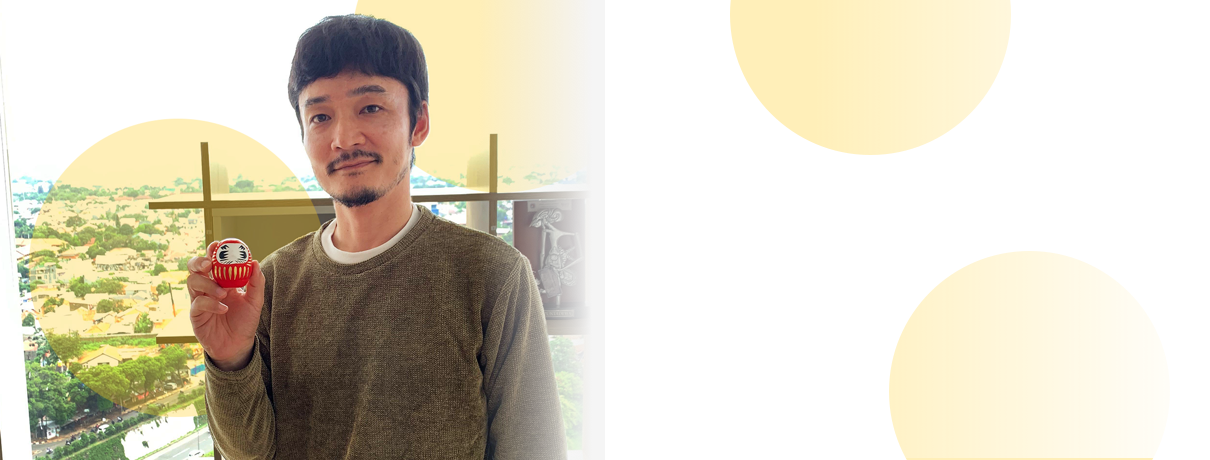
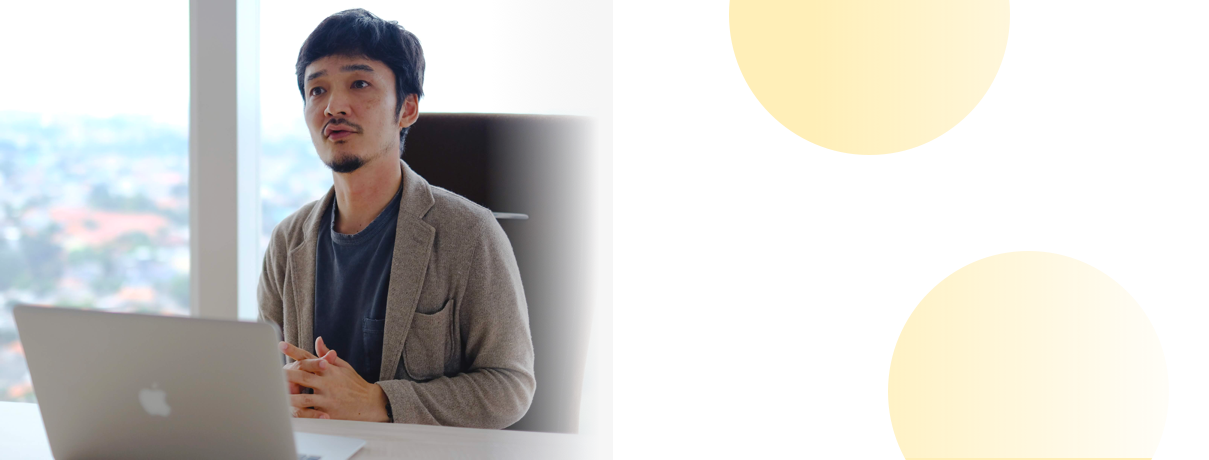
add new content for pesan untuk kandidat

diff --git a/career/interview/aprillian.php b/career/interview/aprillian.php
@@ -1,0 +1,206 @@
+<!DOCTYPE html>
+<html lang="id">
+
+<head>
+  <meta charset="utf-8">
+  <meta http-equiv="X-UA-Compatible" content="IE=edge">
+  <meta name="viewport" content="width=device-width, initial-scale=1.0, minimum-scale=0.5, maximum-scale=3.0">
+  <meta name="description" itemprop="description"
+    content="Staff terbaik kami di divisi Digital Marketing memberikan pesan untuk para kandidat yang ingin melamar sebagai Frontend Developer di LOGIQUE terkait kemampuan apa saja yang dicari oleh kami sehingga dapat terus berkembang bersama kami. Segera kunjungi website karir LOGIQUE sekarang juga!">
+  <meta name="keywords"
+    content="keuntungan bekerja di logique, join us, web developer, lowongan kerja, digital marketing, seo, desain">
+  <meta name="author" content="PT. Logique Digital Indonesia">
+  <meta property="og:title" content="Interview Digital Marketing | Pesan Untuk Kandidat | LOGIQUE">
+  <meta property="og:type" content="website">
+  <meta property="og:site_name" content="Logique">
+  <meta property="og:url" content="https://www.logique.co.id/career/">
+   <meta property="og:image" content="https://www.logique.co.id/img/ogimg/karir.png">
+  <meta property="og:description"
+    content="Staff terbaik kami di divisi Frontend Developer memberikan pesan untuk para kandidat yang ingin melamar sebagai Frontend Developer di LOGIQUE terkait kemampuan apa saja yang dicari oleh kami sehingga dapat terus berkembang bersama kami. Segera kunjungi website karir LOGIQUE sekarang juga!">
+  <link rel="shortcut icon" type="image/x-icon" href="/favicon.ico">
+  
+    <script type="text/javascript" src="//script.crazyegg.com/pages/scripts/0096/6080.js" async="async"></script>
+    <title>Interview Digital Marketing | Pesan Untuk Kandidat | LOGIQUE</title>
+
+  <!-- Bootstrap -->
+  <link href="/css/bootstrap.min.css" rel="stylesheet">
+  <link href="/career/style-career.css" rel="stylesheet">
+  <!-- <link href="/css/style.css" rel="stylesheet"> -->
+  <link href="/fonts/font-awesome/css/font-awesome.min.css" rel="stylesheet">
+  <link href="/css/aos.css" rel="stylesheet">
+  <!-- Google Tag Manager -->
+  <script>
+  (function(w, d, s, l, i) {
+    w[l] = w[l] || [];
+    w[l].push({
+      'gtm.start': new Date().getTime(),
+      event: 'gtm.js'
+    });
+    var f = d.getElementsByTagName(s)[0],
+      j = d.createElement(s),
+      dl = l != 'dataLayer' ? '&l=' + l : '';
+    j.async = true;
+    j.src =
+      'https://www.googletagmanager.com/gtm.js?id=' + i + dl;
+    f.parentNode.insertBefore(j, f);
+  })(window, document, 'script', 'dataLayer', 'GTM-KQJRS4V');
+  </script>
+  <!-- End Google Tag Manager -->
+
+  <!-- Facebook Pixel Code -->
+  <script>
+  ! function(f, b, e, v, n, t, s) {
+    if (f.fbq) return;
+    n = f.fbq = function() {
+      n.callMethod ?
+        n.callMethod.apply(n, arguments) : n.queue.push(arguments)
+    };
+    if (!f._fbq) f._fbq = n;
+    n.push = n;
+    n.loaded = !0;
+    n.version = '2.0';
+    n.queue = [];
+    t = b.createElement(e);
+    t.async = !0;
+    t.src = v;
+    s = b.getElementsByTagName(e)[0];
+    s.parentNode.insertBefore(t, s)
+  }(window, document, 'script',
+    'https://connect.facebook.net/en_US/fbevents.js');
+  fbq('init', '713777762291663');
+  fbq('track', 'PageView');
+  </script>
+  <noscript><img height="1" width="1" style="display:none"
+      src="https://www.facebook.com/tr?id=713777762291663&ev=PageView&noscript=1" /></noscript>
+  <!-- End Facebook Pixel Code -->
+</head>
+
+<body>
+  <!-- Google Tag Manager (noscript) -->
+  <noscript><iframe src="https://www.googletagmanager.com/ns.html?id=GTM-KQJRS4V" height="0" width="0"
+      style="display:none;visibility:hidden"></iframe></noscript>
+  <!-- End Google Tag Manager (noscript) -->
+  <div class="wrapper">
+
+    <!-- Header -->
+    <?php include '../layout-career/header-career.php'; ?>
+
+    <div class="career-update content-wrapper__">
+
+      <section class="container-fluid --top bg--detail-interview">
+        <div class="container--max-width --no-padding">
+          <div class="row">
+            <div class="col-sm-offset-1 col-sm-10">
+              <ol class="breadcrumb breadcrumb--update-design" itemscope itemtype="http://schema.org/BreadcrumbList">
+                <li itemprop="itemListElement" itemscope itemtype="http://schema.org/ListItem"><a itemprop="item"
+                    href="/index.php"><span itemprop="name">Beranda</span></a>
+                  <meta itemprop="position" content="1" />
+                </li>
+                <li itemprop="itemListElement" itemscope itemtype="http://schema.org/ListItem"><a itemprop="item"
+                    href="/career/index.php"><span itemprop="name">&nbsp; Karir</span></a>
+                  <meta itemprop="position" content="2" />
+                </li>
+                <li itemprop="itemListElement" itemscope itemtype="http://schema.org/ListItem"><a itemprop="item"
+                    href="/career/pesan-untuk-kandidat/"><span itemprop="name">&nbsp; Pesan Untuk Kandidat</span></a>
+                  <meta itemprop="position" content="3" />
+                </li>
+                <li class="active" itemprop="itemListElement" itemscope itemtype="http://schema.org/ListItem"><a
+                    itemprop="item"><span itemprop="name">&nbsp; Aprillian</span></a>
+                  <meta itemprop="position" content="4" />
+                </li>
+              </ol>
+            </div>
+          </div>
+        </div>
+        <div class="container--max-width header-banner" style="padding-bottom: 1.5em;">
+          <div class="row row__same-height">
+            <div class="col-md-offset-1 col-md-4">
+              <img src="/img/career/aprillian.jpg" class="img-responsive">
+            </div>
+            <div class="col-md-7">
+              <div class="interview__role-title --white">
+                <h1>-- Aprilian, Leader Digital Marketing Team</h1>
+              </div>
+            </div>
+          </div>
+        </div>
+      </section>
+
+      <section class="container-fluid">
+        <div class="container--max-width" style="padding-bottom: 0;">
+          <div class="row">
+            <div class="col-sm-offset-1 col-sm-10">
+              <div class="row">
+                <div class="col-md-1">
+                  <img src="/img/career/qa_.png">
+                </div>
+                <div class="col-md-10 interview__qa">
+                  <h3>Sebagai leader digital marketing tim, Apa yang anda lakukan untuk perusahaan agar dapat terus bersaing melalui Digital Marketing?</h3>
+                  <p>Membangun pondasi team yang kuat dengan meningkatkan kualitas pengetahuan dan skill dari masing-masing kehalian yang dibutuhkan, agar kemudian mampu memberikan positive value berdasarkan performance kerja yang nyata kepada klien setia Logqiue.</p>
+                </div>
+              </div>
+              <div class="row">
+                <div class="col-md-1">
+                  <img src="/img/career/qa_.png">
+                </div>
+                <div class="col-md-10 interview__qa">
+                  <h3>Apakah menurut anda bekerja secara remote dapat meningkatkan produktivitas?</h3>
+                  <p>Akan dikembalikan kepada setiap individu yang menjalaninya, tapi menurut saya pribadi saya merasa lebih produktif bekerja secara on site dan dipadukan dengan kerja secara remote. Sesuai dengan metode yang sudah di jalankan Logique saat ini. </p>
+                </div>
+              </div>
+              <div class="row">
+                <div class="col-md-1">
+                  <img src="/img/career/qa_.png">
+                </div>
+                <div class="col-md-10 interview__qa">
+                  <h3>Bagaimana pendapat anda mengenai jam kerja fleksibel bagi tim anda?</h3>
+                  <p>Saat dibutuhkan koordinasi team dalam waktu yang bersamaan, saya hanya berharap setiap tim mampu menyikapinya dengan professional karena ini merupakan suatu benefit yang menguntungkan bagi kita semua. Kita di harapkan mampu dan mempunyai pola kerja yang baik dari jam kerja yang flexible ini.</p>
+                </div>
+              </div>
+              <div class="row">
+                <div class="col-md-1">
+                  <img src="/img/career/qa_.png">
+                </div>
+                <div class="col-md-10 interview__qa">
+                  <h3>Apakah anda siap jika LOGIQUE memberi anda kesempatan promosi jabatan lebih cepat dari perusahaan lain?</h3>
+                  <p>Sangat siap, karena ini adalah kesempatan bagi saya untuk meningkatkan value atas keahlian yang saya miliki.Logique juga sangat terbuka jika kita ingin mencoba untuk berada di posisi yang lain ketika ada di nilai mempunyai kemampuan dan juga keinginan yang kuat. </p>
+                </div>
+              </div>
+              <div class="row">
+                <div class="col-md-1">
+                  <img src="/img/career/qa_.png">
+                </div>
+                <div class="col-md-10 interview__qa">
+                  <h3>Dari semua lingkup pekerjaan yang anda lakukan sebagai Digital Marketing Lead, pekerjaan apa yang paling anda sukai, dan kenapa?</h3>
+                  <p>Menjadi seorang mentor, senang rasanya bisa membagikan pengalaman dan pengetahuan yang saya miliki kepada orang lain, Saya merasa itu adalah saat dimana Saya mampu menjadi individu yang mampu memberikan manfaat bagi individu lainnya.</p>
+                </div>
+              </div>
+              <div class="row">
+                <div class="col-md-1">
+                  <img src="/img/career/qa_.png">
+                </div>
+                <div class="col-md-10 interview__qa">
+                  <h3>Apa yang kira2 ingin anda sampaikan kepada candidate?</h3>
+                  <p>Hi Kandidat, Saya percaya kalian adalah pribadi-pribadi yang hebat, Logique akan menjadi tempat yang tepat buat Anda, karena di Logique, Anda bukan cuma dapat kesempatan untuk berkarir, tapi Anda akan mendapatkan kesempatan untuk belajar banyak hal yang dampaknya jenjang karir Anda akan terbuka lebih luas.</p>
+                </div>
+              </div>
+            </div>
+          </div>
+        </div>
+      </section>
+
+      <?php include '../layout-career/lihat-interview-lainnya.php'; ?>
+
+      <?php include '../layout-career/contact-lgq.php'; ?>
+
+    </div>
+
+    <?php include '../../footer.php'; ?>
+  </div>
+  <script src="/js/aos.js"></script>
+  <script type="text/JavaScript">
+    $('.waNumber').html('0822-60-5678-56');
+    </script>
+</body>
+
+</html>

diff --git a/career/pesan-untuk-kandidat/index.php b/career/pesan-untuk-kandidat/index.php
@@ -209,6 +209,25 @@
                     </div>
                   </div>
                 </div>
+                <div class="col-md-4 pb--2-5em">
+                  <img class="img-responsive center-block" src="/img/career/aprillian-message.png" alt="DM Aprillian">
+                  <div class="message__text-wrapper">
+                    <h4 class="message__text-title" data-emergence="hidden">
+                      Aprilian
+                      <br class="visible-md hidden-lg">
+                      <span class="role--title">
+                        - Leader of DM
+                      </span>
+                    </h4>
+                    <p class="message__text-content">
+                      “Logique perusahaan yang sangat mengerti arti sebuah apresiasi, setiap hasil diukur secara transparan dengan tolak ukur yang jelas. Logique telah menyiapkan beragam "Reward" bagi setiap individu yang mampu menjadi bagian dari team Logique yang hebat. Melalui keahlian Anda di bidang Digital Marketing dan ditunjang dengan kemampuan dalam Analysis, Planning, & Reporting yang baik, Kami percaya Anda adalah kandidat yang Kami butuhkan.”
+                    </p>
+                    <div class="message__footer">
+                      <a class="form-control main-btn --small-btn-bold --yellow"
+                        href="/career/interview/aprillian.php">Interview with Digital Marketing</a>
+                    </div>
+                  </div>
+                </div>
               </div>
             </div>
           </div>

diff --git a/career/layout-career/lihat-interview-lainnya.php b/career/layout-career/lihat-interview-lainnya.php
@@ -55,6 +55,17 @@
             </a>
           </div>
           <?php endif; ?>
+          <?php if ($name !== 'aprillian'): ?>
+          <div class="col-md-4">
+            <a href="/career/interview/aprillian.php" class="interview-link">
+              <div class="panel panel-default">
+                <div class="panel-body" style="background: url(/img/career/aprillian.jpg)no-repeat;">
+                  <h3>Aprillian, Leader Digital Marketing Team</h3>
+                </div>
+              </div>
+            </a>
+          </div>
+          <?php endif; ?>
           <!-- <div class="col-md-3">
                   <div class="seemore_">
                     <h3><a href="/career">See More >></a></h3>
